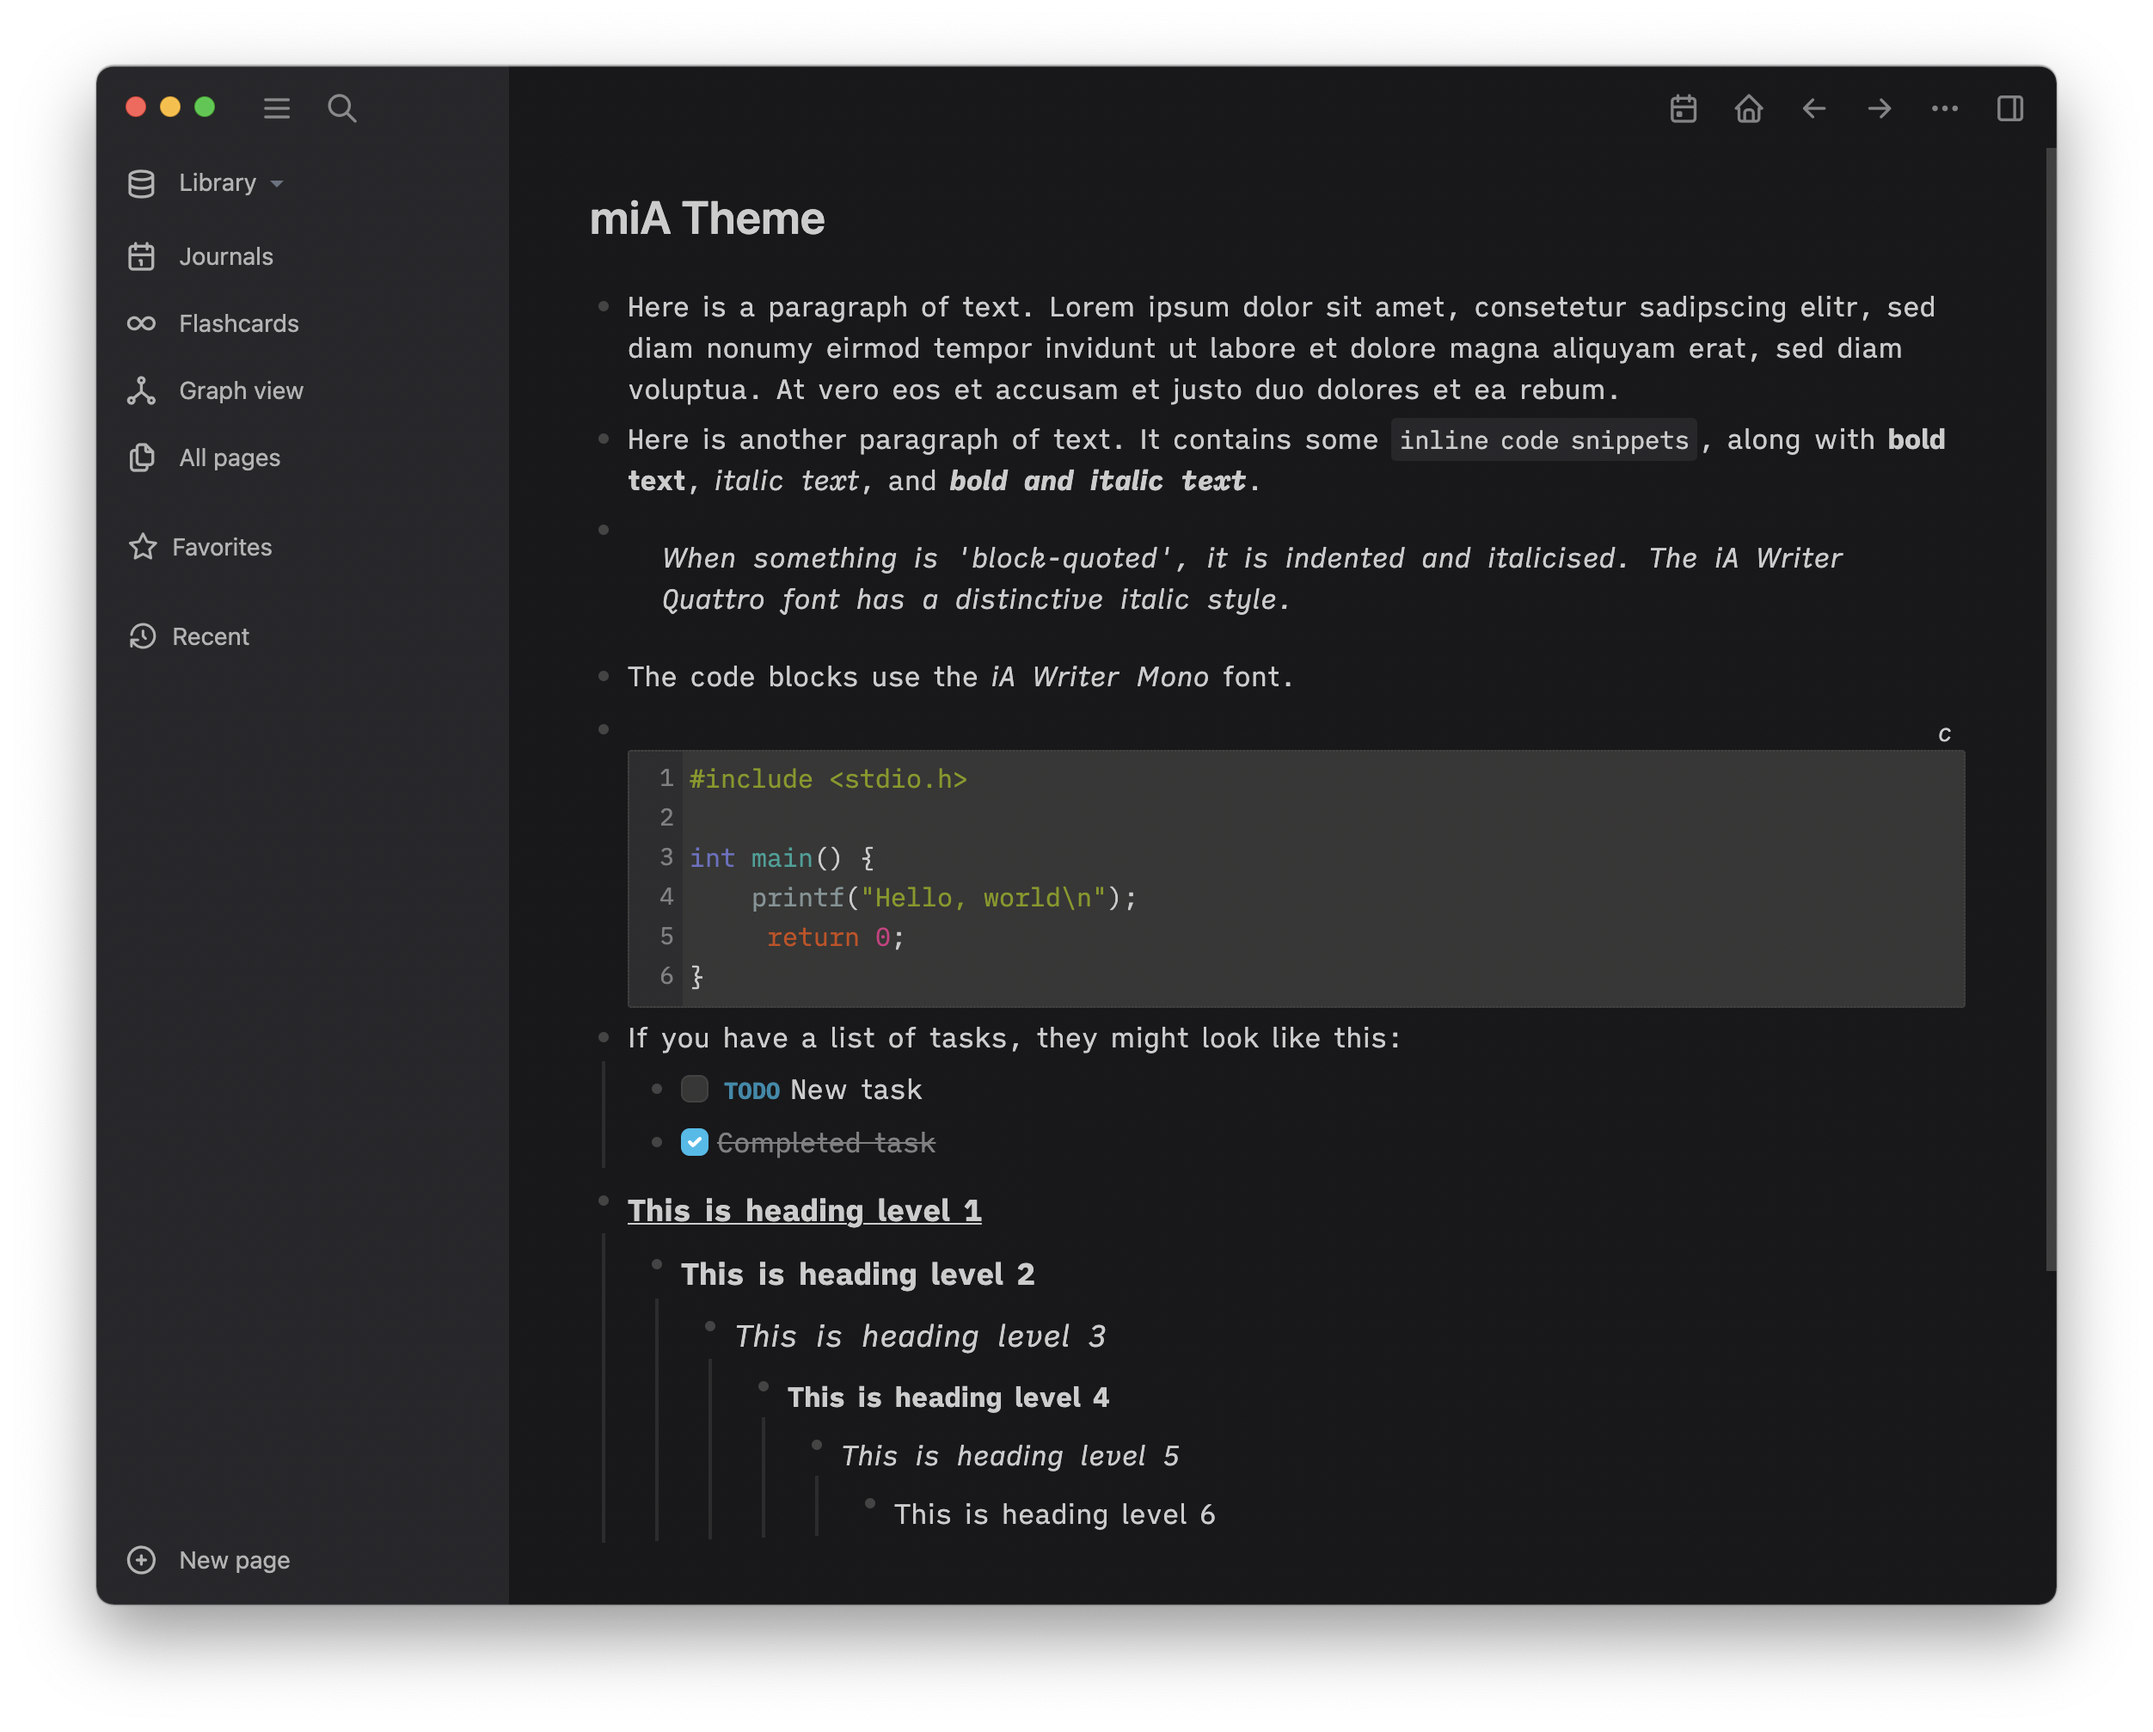
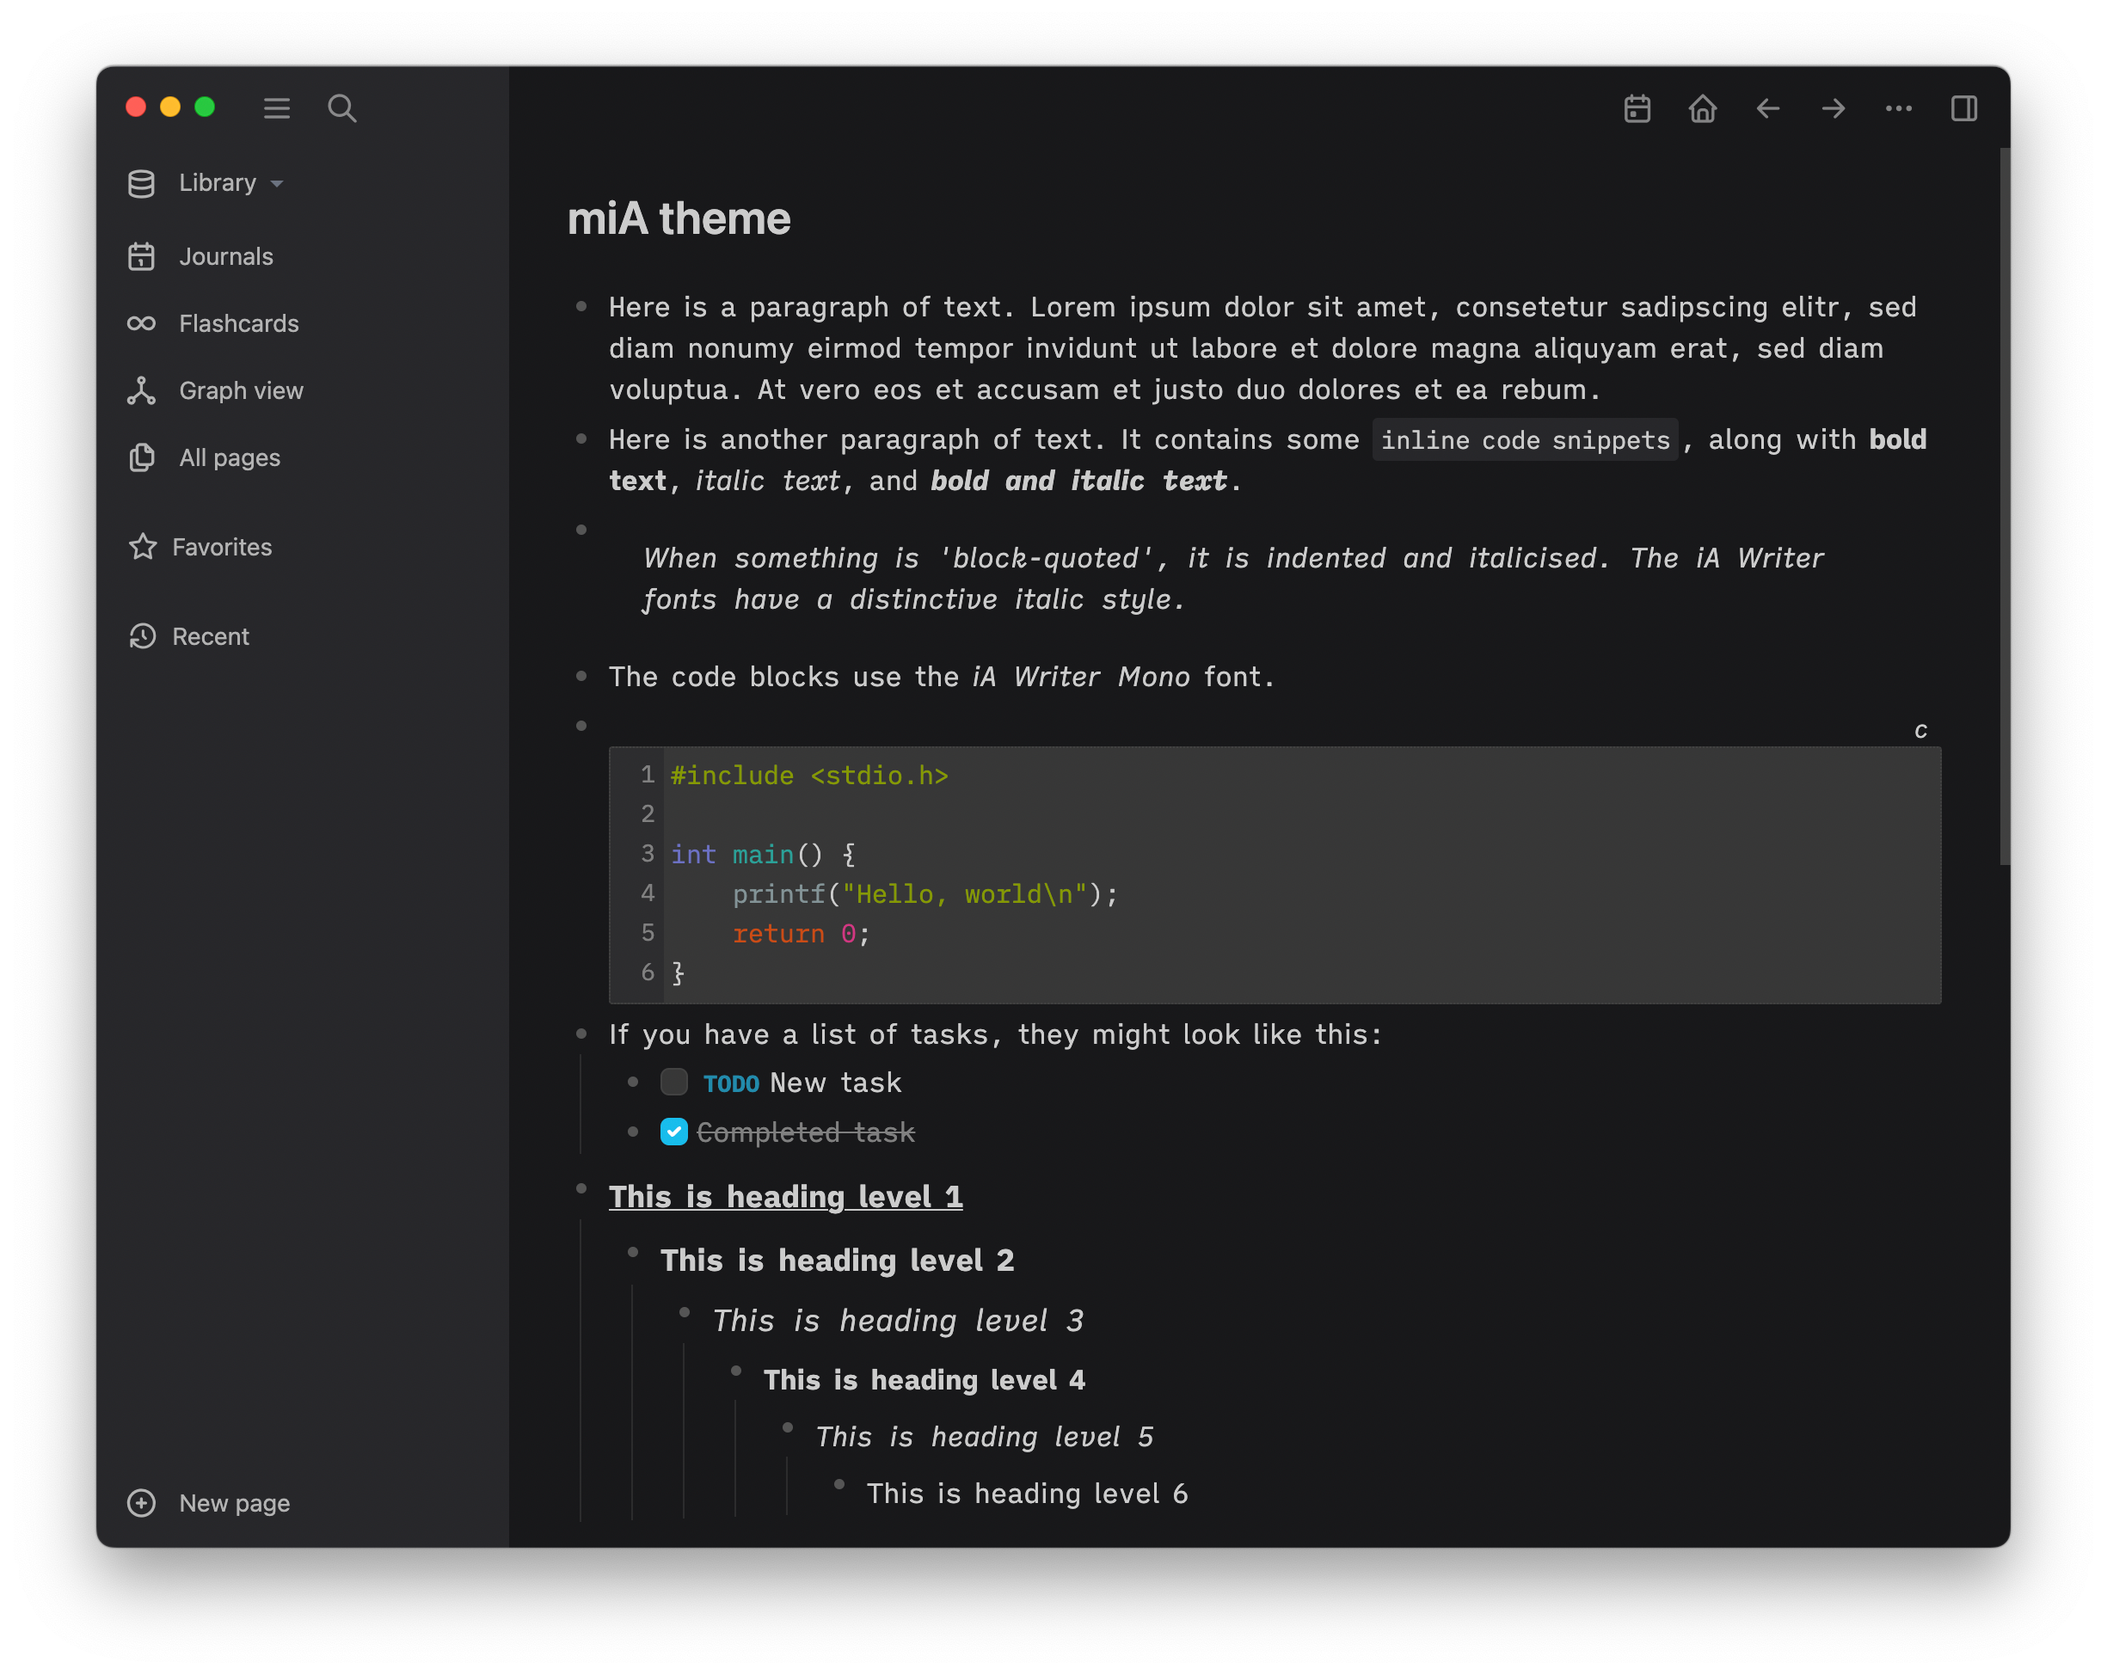
Update documentation and screenshots

diff --git a/README.md b/README.md
@@ -1,29 +1,71 @@
 ## Logseq miA theme
 
-A [Logseq](https://github.com/logseq/logseq) theme inspired by [macOS](https://www.apple.com/macos/monterey/) and [iA Writer](https://ia.net/writer).
+A [Logseq](https://github.com/logseq/logseq) theme inspired by [macOS](https://www.apple.com/macos/monterey/) and [iA Writer](https://ia.net/writer), supporting light mode and dark mode (configured in Logseq **Settings**), with additional font variations ("duo"-spaced and monospaced).
 
-![miA theme light screenshot](./screenshots/miA-light.png)
+![miA light](./screenshots/miA-light.png)
 
-![miA theme dark screenshot](./screenshots/miA-dark.png)
+![miA light duo](./screenshots/miA-light-duo.png)
 
-For user interface elements, the 'system' font is used—[San Francisco](https://developer.apple.com/fonts/) on macOS. User content is rendered using the [iA Writer Quattro and Mono](https://github.com/iaolo/iA-Fonts) fonts.
+![miA dark](./screenshots/miA-dark.png)
 
-The colour scheme is inspired by *iA Writer* and *macOS*.
+![miA dark mono](./screenshots/miA-dark-mono.png)
 
+For user interface elements, the 'system' font is used—[San Francisco](https://developer.apple.com/fonts/) on macOS. User content is rendered using the [iA Writer fonts](https://github.com/iaolo/iA-Fonts). The colour scheme is inspired by *iA Writer* and *macOS*.
 
-### Using the theme
+The main *miA* theme uses the "iA Writer Quattro" font for content, *miA Duo* uses the "iA Writer Duo" font for content, and *miA Mono* uses the "iA Writer Mono" font for content. All variations use the mono font for code (inline and blocks). The *Duo* and *Mono* variations have small spacing changes, and the heading font sizes are the same as regular text.
 
-You can install the theme using the *Logseq marketplace*.
+### Using the themes
+
+You can install the themes using the *Logseq marketplace* and choose the variation from the **Themes** menu.
 
 Go to **Plugins** from the main menu (click on '...' in top right of the Logseq window ), select **Marketplace** and then **Themes**. Each theme has an 'Install' link.
 
 If you don't see **Plugins** on the main menu, you need to enable plug-ins: go to Logseq **Settings** from the main menu, then the **Advanced** section, and enable the **Plug-in system** and restart Logseq.
 
-If you don't want to use the marketplace, you can add the following line to your `custom.css` page in *Logseq*:
+If you don't want to use the marketplace, you can add one of the following lines to your `custom.css` page in *Logseq* (you can edit this file using Logseq **Settings**).
+
+To use *miA* (with the "Quattro" font):
 
 ```
 @import url('https://playerofgames.github.io/logseq-mia-theme/mia.css');
 ```
+
+To use *miA Duo*:
+
+```
+@import url('https://playerofgames.github.io/logseq-mia-theme/mia_duo.css');
+```
+
+To use *miA Mono*:
+
+```
+@import url('https://playerofgames.github.io/logseq-mia-theme/mia_mono.css');
+```
+
+### Tweaks
+
+The following CSS variables are used to produce the different theme variations, shown here with the values for *Duo*:
+
+```
+	--content-font-family:  "iA Writer Duo S";
+	--content-line-height: 20pt;
+	--block-padding: 4px;
+	--content-h1-size: 100%;
+	--content-h2-size: 100%;
+	--content-h3-size: 100%;
+```
+
+For example, if you wanted the *Duo* variation to use the standard *Logseq* line-height, you could do:
+
+```
+:root {
+	--content-line-height: inherit;
+}
+```
+
+If you like the theme colour scheme, but not the *iA Writer* fonts, you can easily use another font by changing the `--content-font-family` variable.
+
+If you are not on *macOS* and would like the full theme effect of the Logseq user interface using the *San Francisco* font, you can install the "SF Pro Text" and "SF Pro Display" fonts from [here](https://developer.apple.com/fonts/).
 
 ### Links
 
